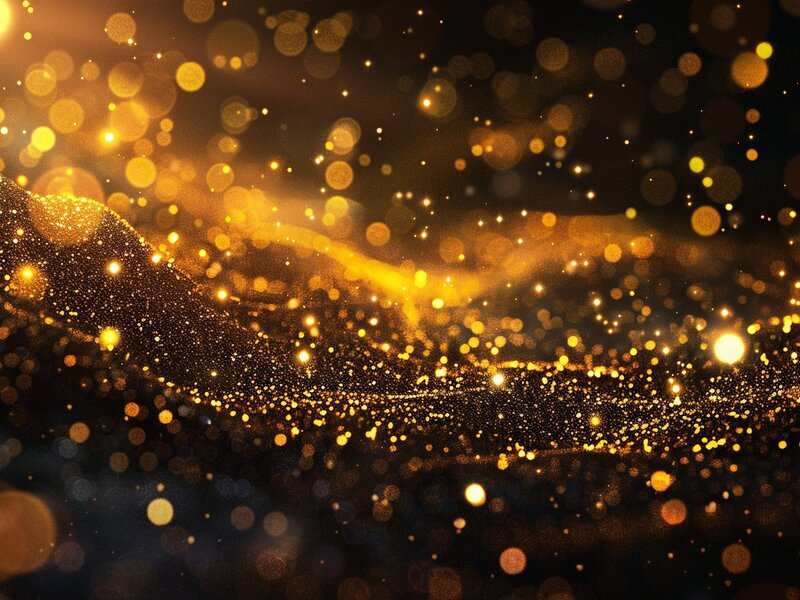
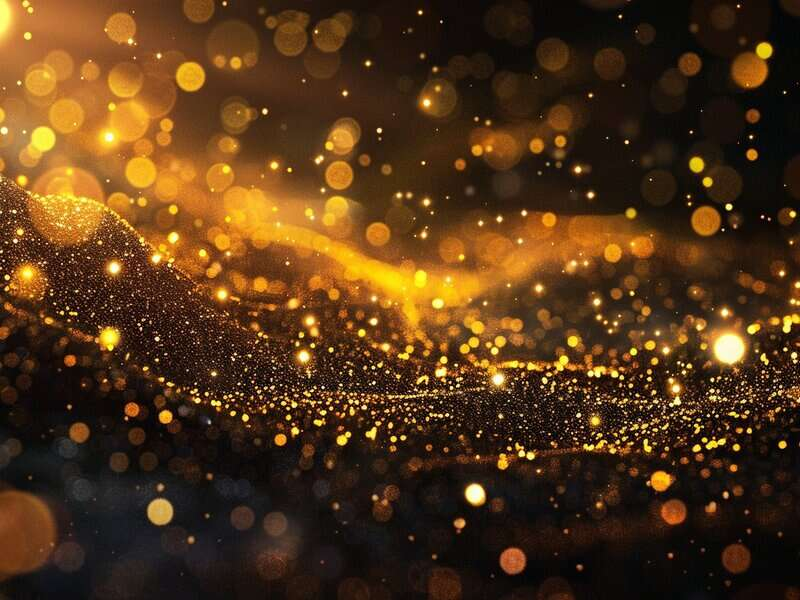
SEO技术审计与优化 (第五步完成)
- 压缩hero-home.jpg: 408KB → 129KB (减少69%)
- 压缩gold-abstract.jpg: 124KB → 63KB (减少49%)
- 修复HTTP链接: jogadoresanonimos.org.br改为HTTPS

SEO审计结果: 91/100 (A级)
- 内容结构验证: 19/20
- 核心技术SEO: 18/20
- 巴西市场本地化: 20/20
- 联盟营销优化: 18/20
- 安全与信任: 16/20

🤖 Generated with [Claude Code](https://claude.com/claude-code)

diff --git a/website/jogo-responsavel.html b/website/jogo-responsavel.html
@@ -121,7 +121,7 @@
       <div class="container">
         <div class="alert alert-warning">
           <strong>Precisa de Ajuda Agora?</strong><br>
-          <strong>CVV:</strong> 188 (24 horas) | <strong>IBJR:</strong> <a href="https://ibjr.org" target="_blank" rel="noopener">ibjr.org</a> | <strong>Jogadores Anônimos:</strong> <a href="http://jogadoresanonimos.org.br" target="_blank" rel="noopener">jogadoresanonimos.org.br</a>
+          <strong>CVV:</strong> 188 (24 horas) | <strong>IBJR:</strong> <a href="https://ibjr.org" target="_blank" rel="noopener">ibjr.org</a> | <strong>Jogadores Anônimos:</strong> <a href="https://jogadoresanonimos.org.br" target="_blank" rel="noopener">jogadoresanonimos.org.br</a>
         </div>
       </div>
     </section>
@@ -460,7 +460,7 @@
                     </tr>
                     <tr>
                       <td><strong>Jogadores Anônimos</strong></td>
-                      <td><a href="http://jogadoresanonimos.org.br" target="_blank" rel="noopener">jogadoresanonimos.org.br</a></td>
+                      <td><a href="https://jogadoresanonimos.org.br" target="_blank" rel="noopener">jogadoresanonimos.org.br</a></td>
                     </tr>
                     <tr>
                       <td><strong>CVV</strong></td>
@@ -608,7 +608,7 @@
           <strong>Se você ou alguém que conhece precisa de ajuda:</strong><br>
           <strong>CVV:</strong> 188 (24 horas)<br>
           <strong>IBJR:</strong> <a href="https://ibjr.org" target="_blank" rel="noopener">ibjr.org</a><br>
-          <strong>Jogadores Anônimos:</strong> <a href="http://jogadoresanonimos.org.br" target="_blank" rel="noopener">jogadoresanonimos.org.br</a>
+          <strong>Jogadores Anônimos:</strong> <a href="https://jogadoresanonimos.org.br" target="_blank" rel="noopener">jogadoresanonimos.org.br</a>
         </div>
       </div>
     </section>

diff --git a/website/perguntas-frequentes.html b/website/perguntas-frequentes.html
@@ -542,7 +542,7 @@
             <ul>
               <li><strong>CVV:</strong> 188 (24 horas)</li>
               <li><strong>IBJR:</strong> <a href="https://ibjr.org" target="_blank" rel="noopener">ibjr.org</a></li>
-              <li><strong>Jogadores Anônimos:</strong> <a href="http://jogadoresanonimos.org.br" target="_blank" rel="noopener">jogadoresanonimos.org.br</a></li>
+              <li><strong>Jogadores Anônimos:</strong> <a href="https://jogadoresanonimos.org.br" target="_blank" rel="noopener">jogadoresanonimos.org.br</a></li>
               <li><strong>CAPS:</strong> Procure na sua cidade (SUS)</li>
             </ul>
             <p>Para mais informações, visite nossa <a href="jogo-responsavel.html">página de jogo responsável</a>.</p>

diff --git a/website/contato-suporte.html b/website/contato-suporte.html
@@ -394,7 +394,7 @@
                     </tr>
                     <tr>
                       <td><strong>Jogadores Anônimos</strong></td>
-                      <td><a href="http://jogadoresanonimos.org.br" target="_blank" rel="noopener">jogadoresanonimos.org.br</a></td>
+                      <td><a href="https://jogadoresanonimos.org.br" target="_blank" rel="noopener">jogadoresanonimos.org.br</a></td>
                     </tr>
                   </tbody>
                 </table>
